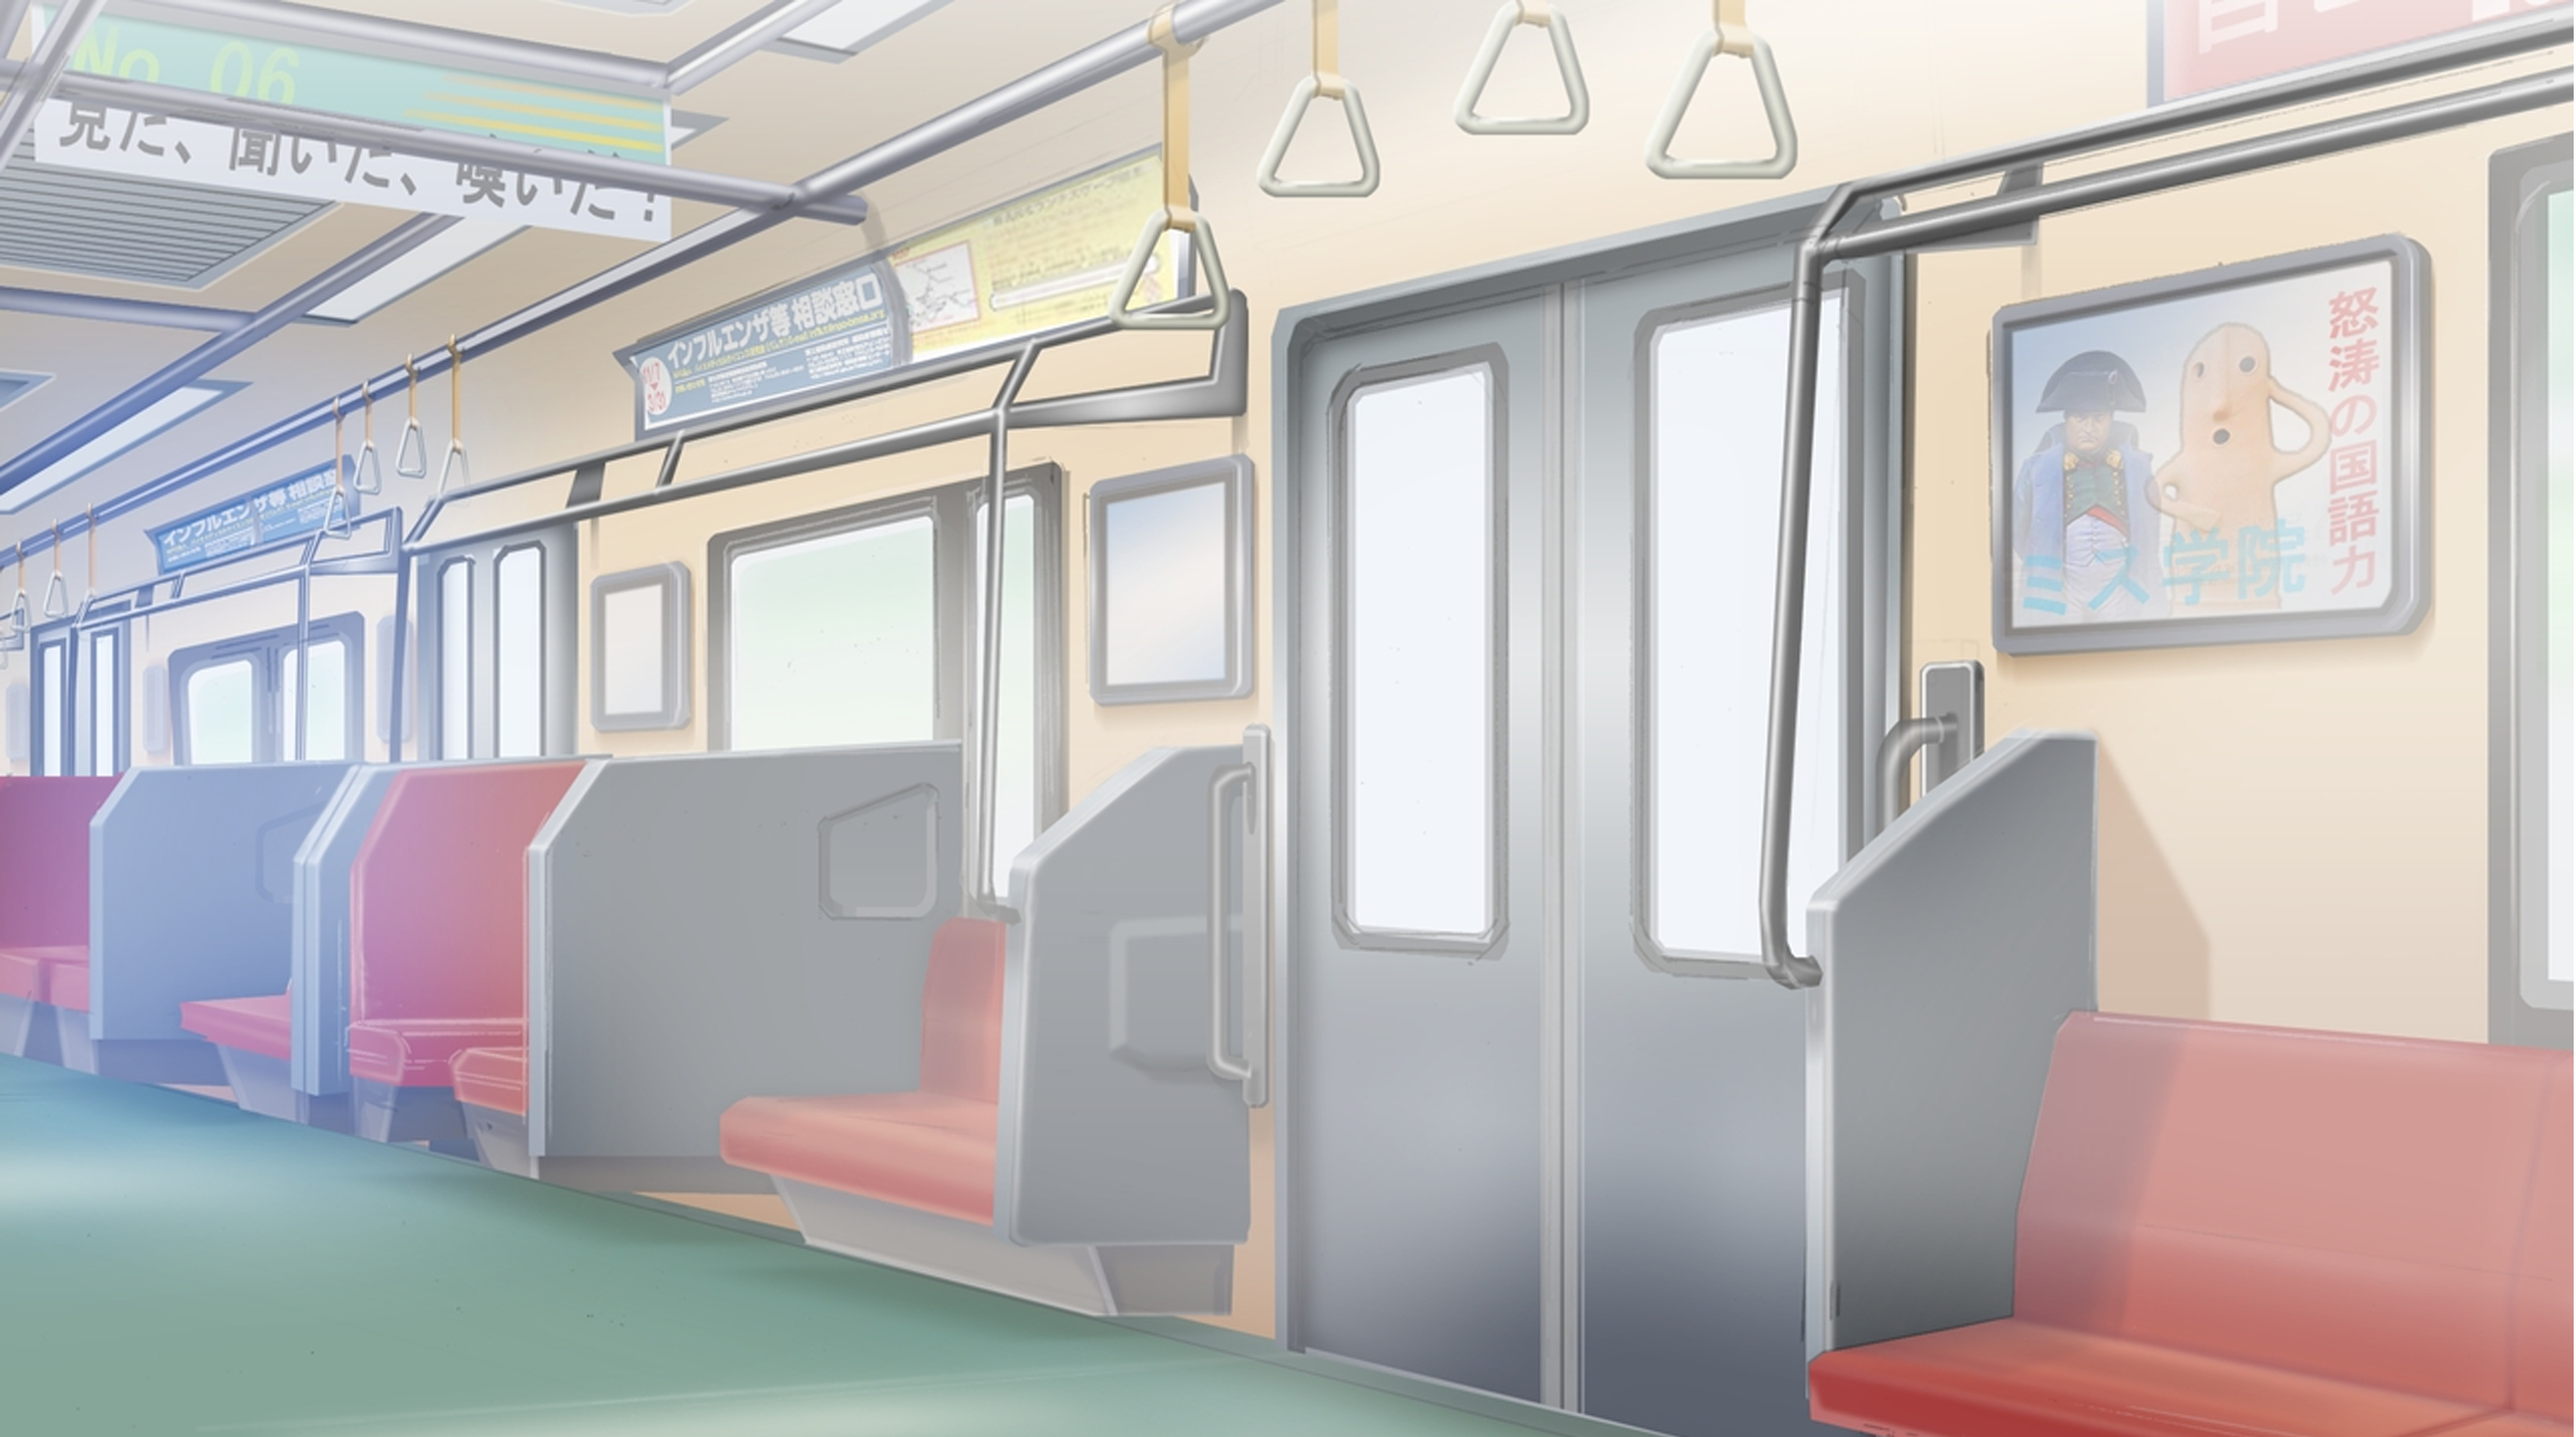
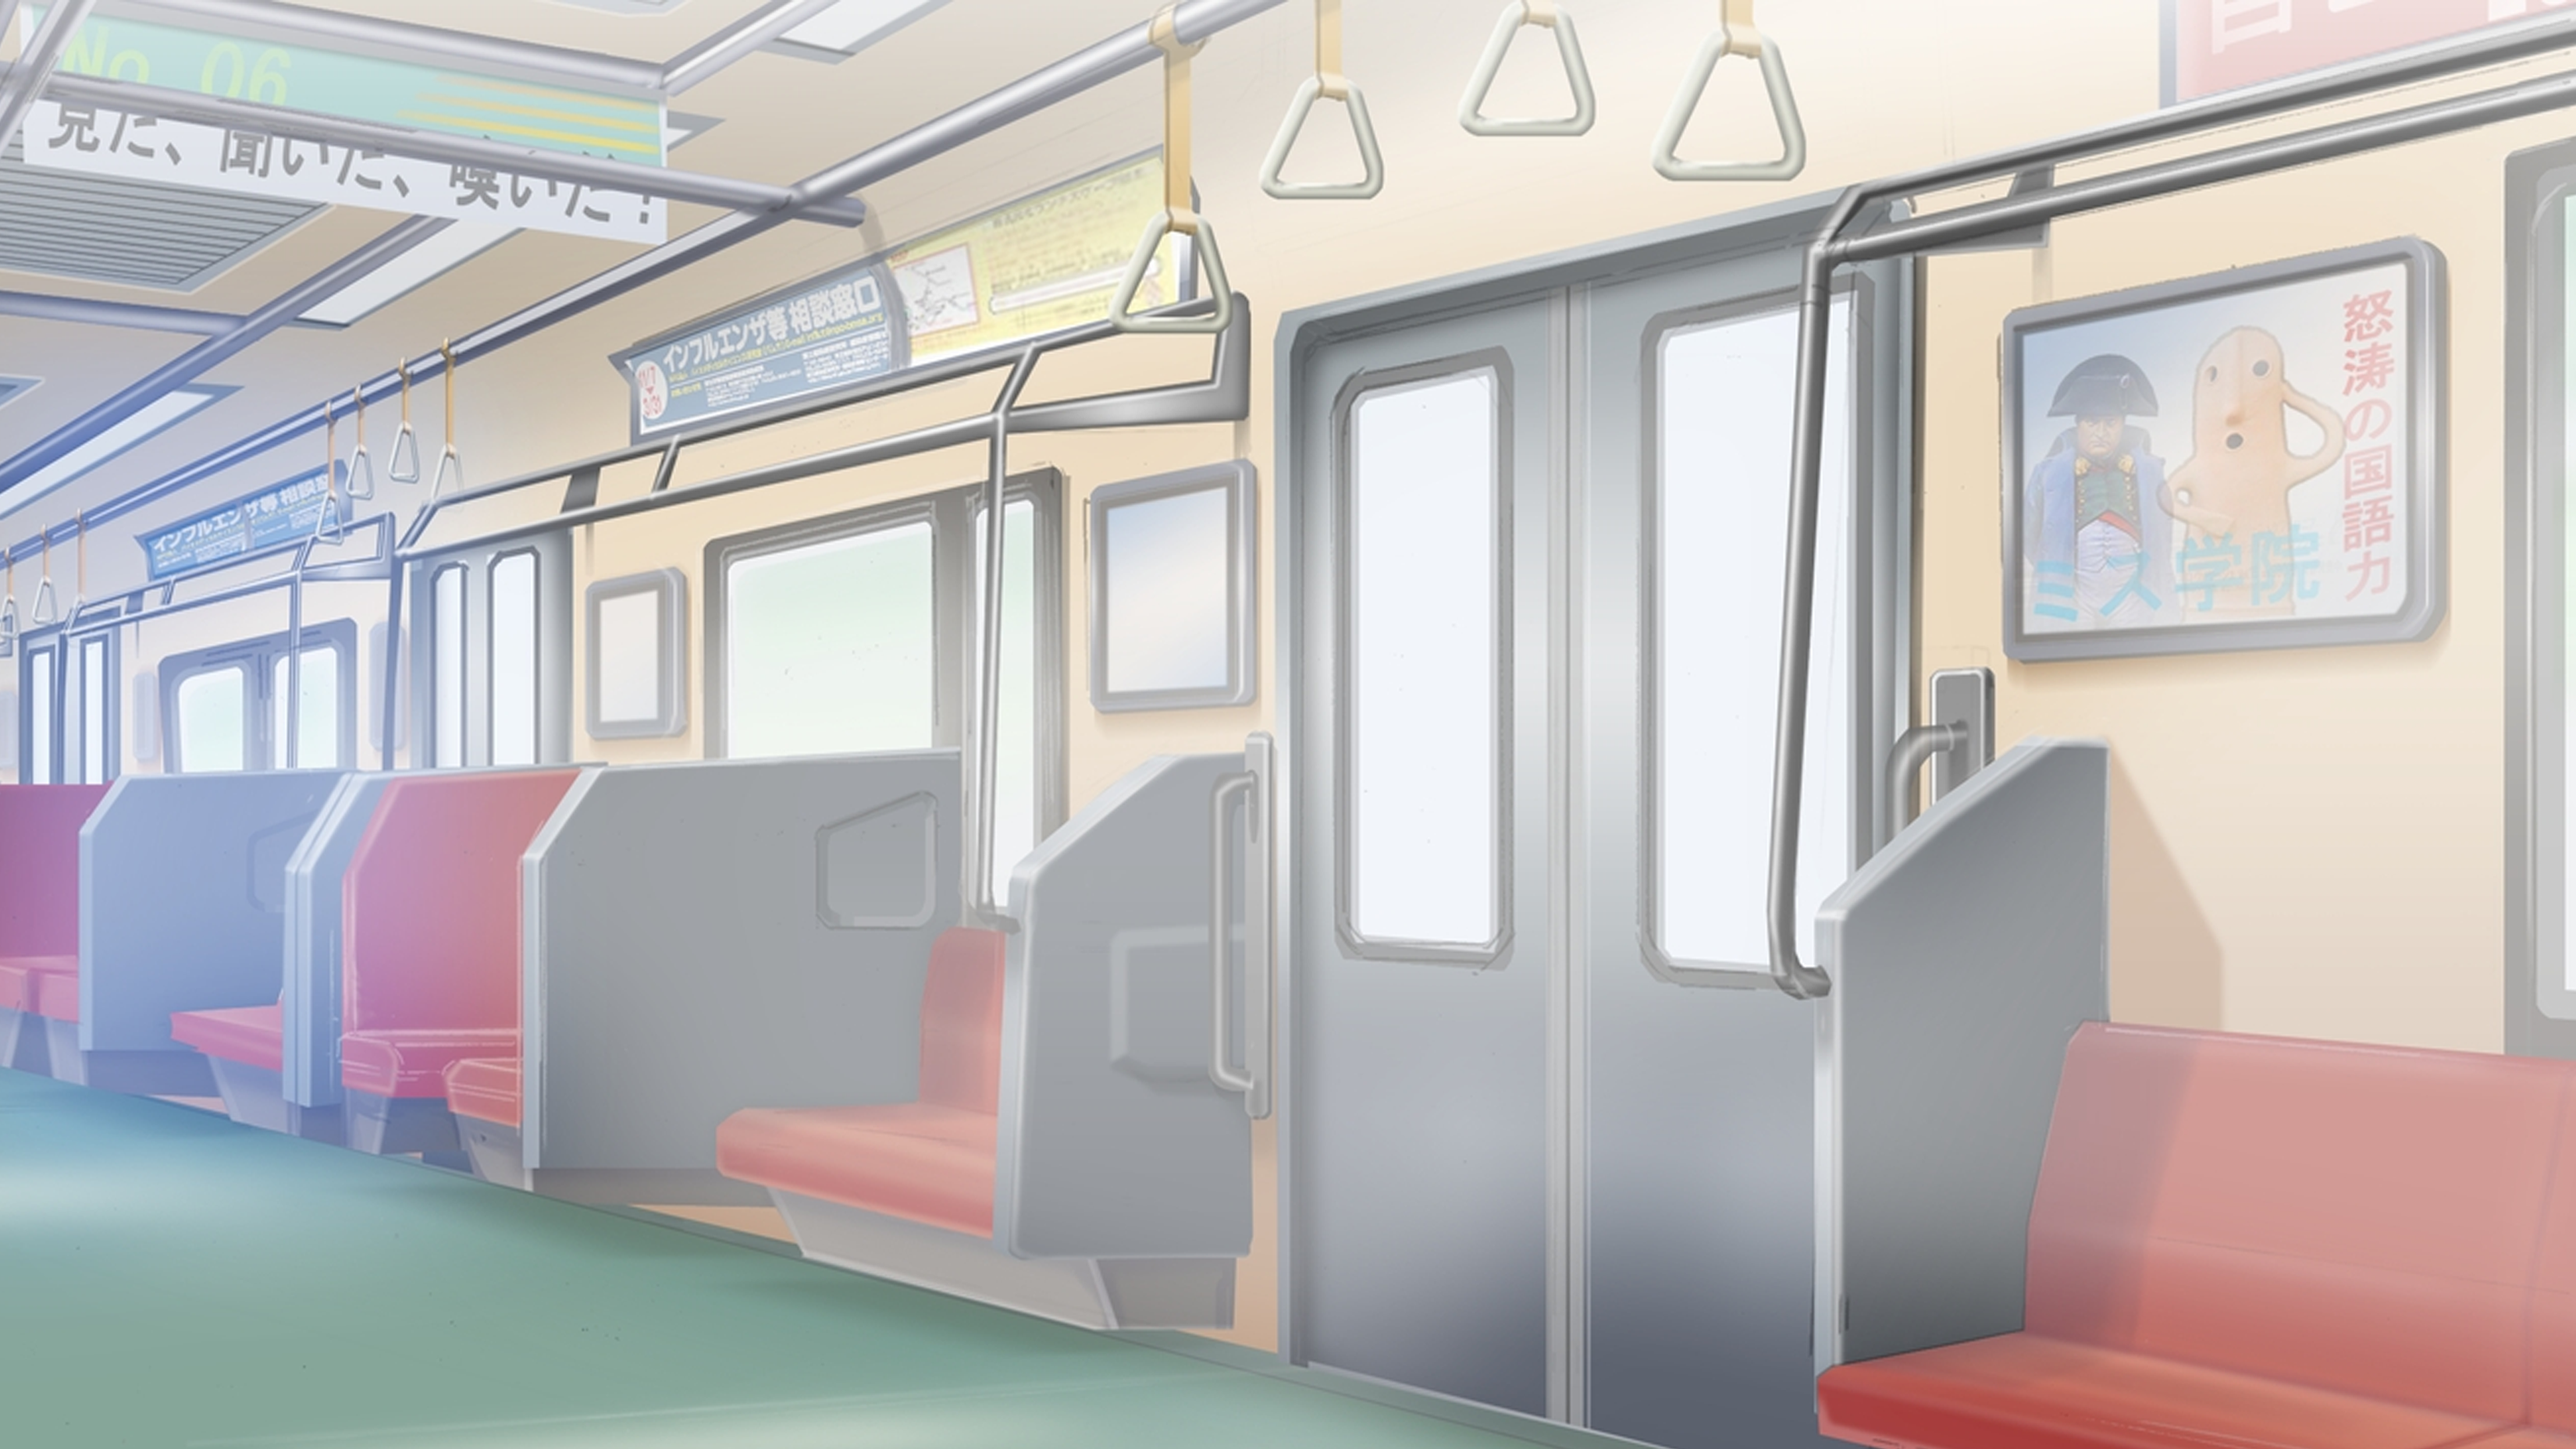
fit to max to height

diff --git a/pages/index.tsx b/pages/index.tsx
@@ -20,7 +20,7 @@ const Home: NextPage = () => {
                 <HomePage />
             </main>
 
-            <footer className={styles.footer}>
+            {/* <footer className={styles.footer}>
                 <a
                     href="https://vercel.com?utm_source=create-next-app&utm_medium=default-template&utm_campaign=create-next-app"
                     target="_blank"
@@ -36,7 +36,7 @@ const Home: NextPage = () => {
                         />
                     </span>
                 </a>
-            </footer>
+            </footer> */}
         </div>
     );
 };

diff --git a/src/components/HomePage/HomePage.module.scss b/src/components/HomePage/HomePage.module.scss
@@ -4,9 +4,9 @@
     position: absolute;
     // height: 1841px;
     // width: 3300px;
-    width: 100%;
-    height: 100%;
-    background-size: 100% auto;
+    width: 105%;
+    height: 105%;
+    background-size: auto 100%;
     background-repeat: no-repeat;
 }
 
